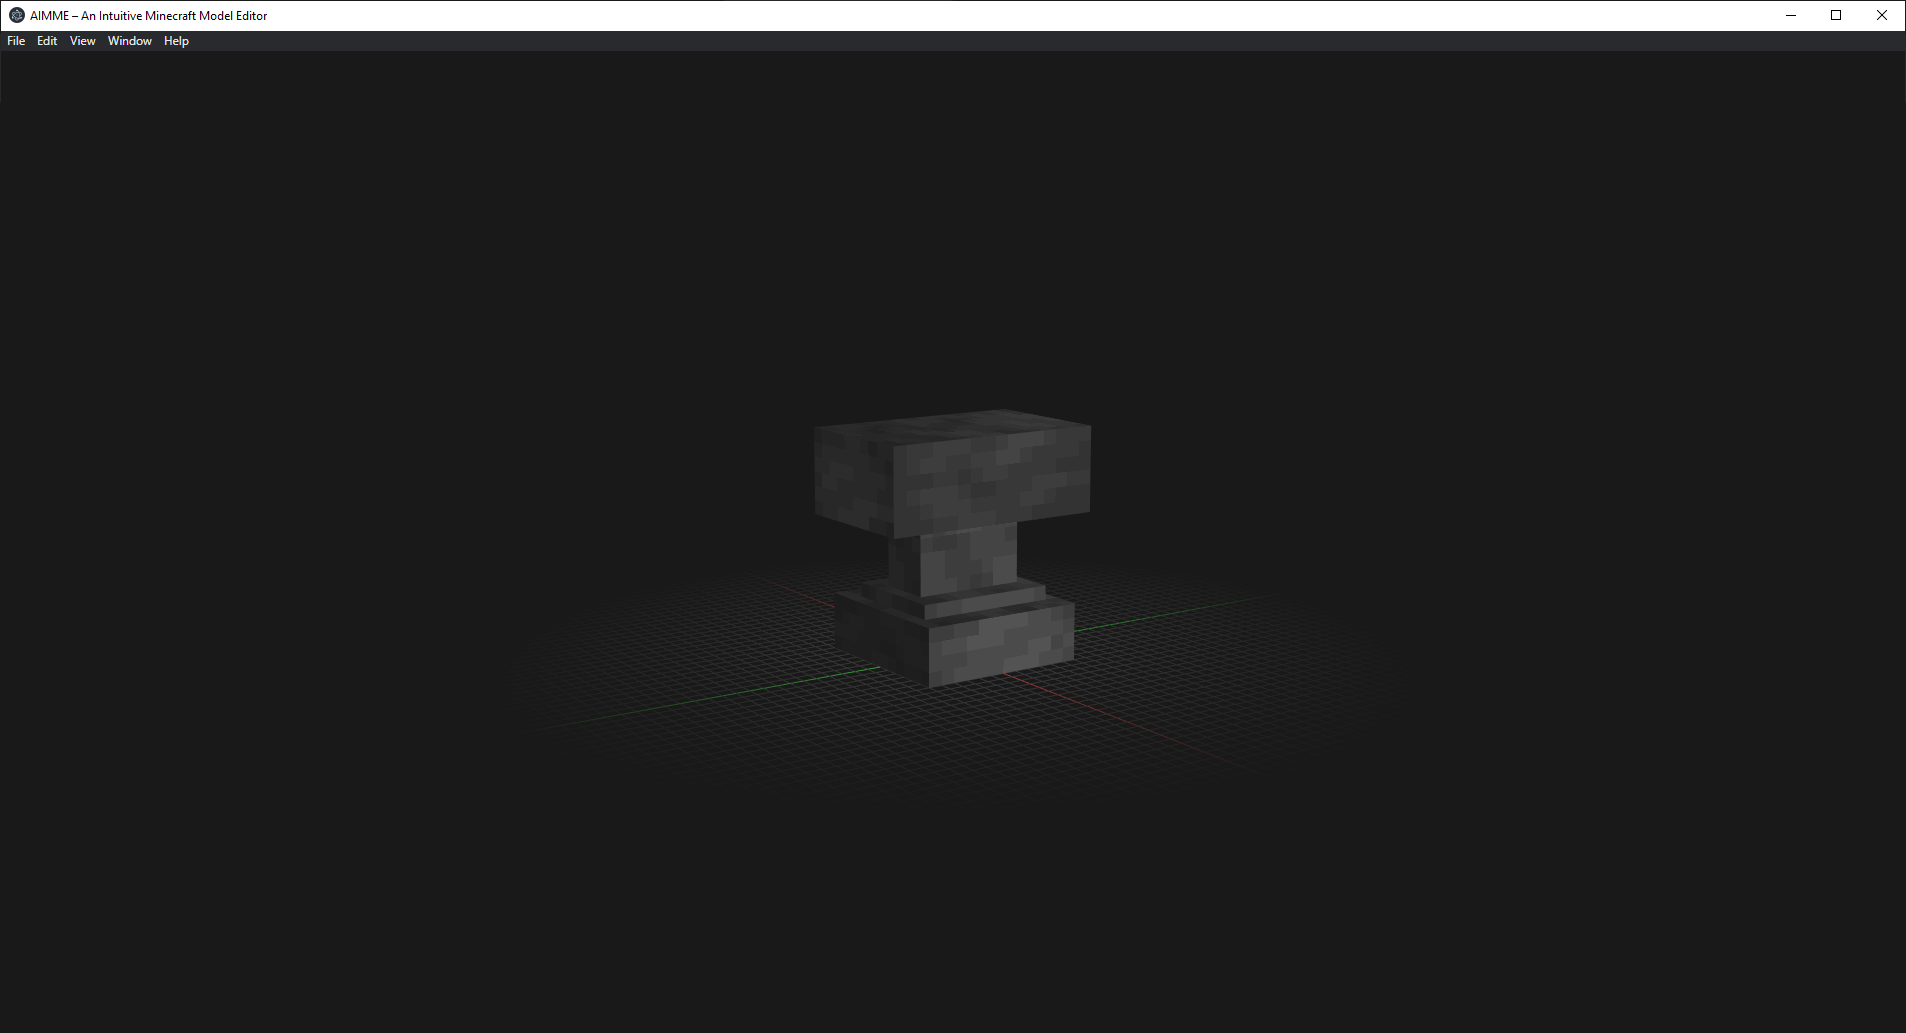
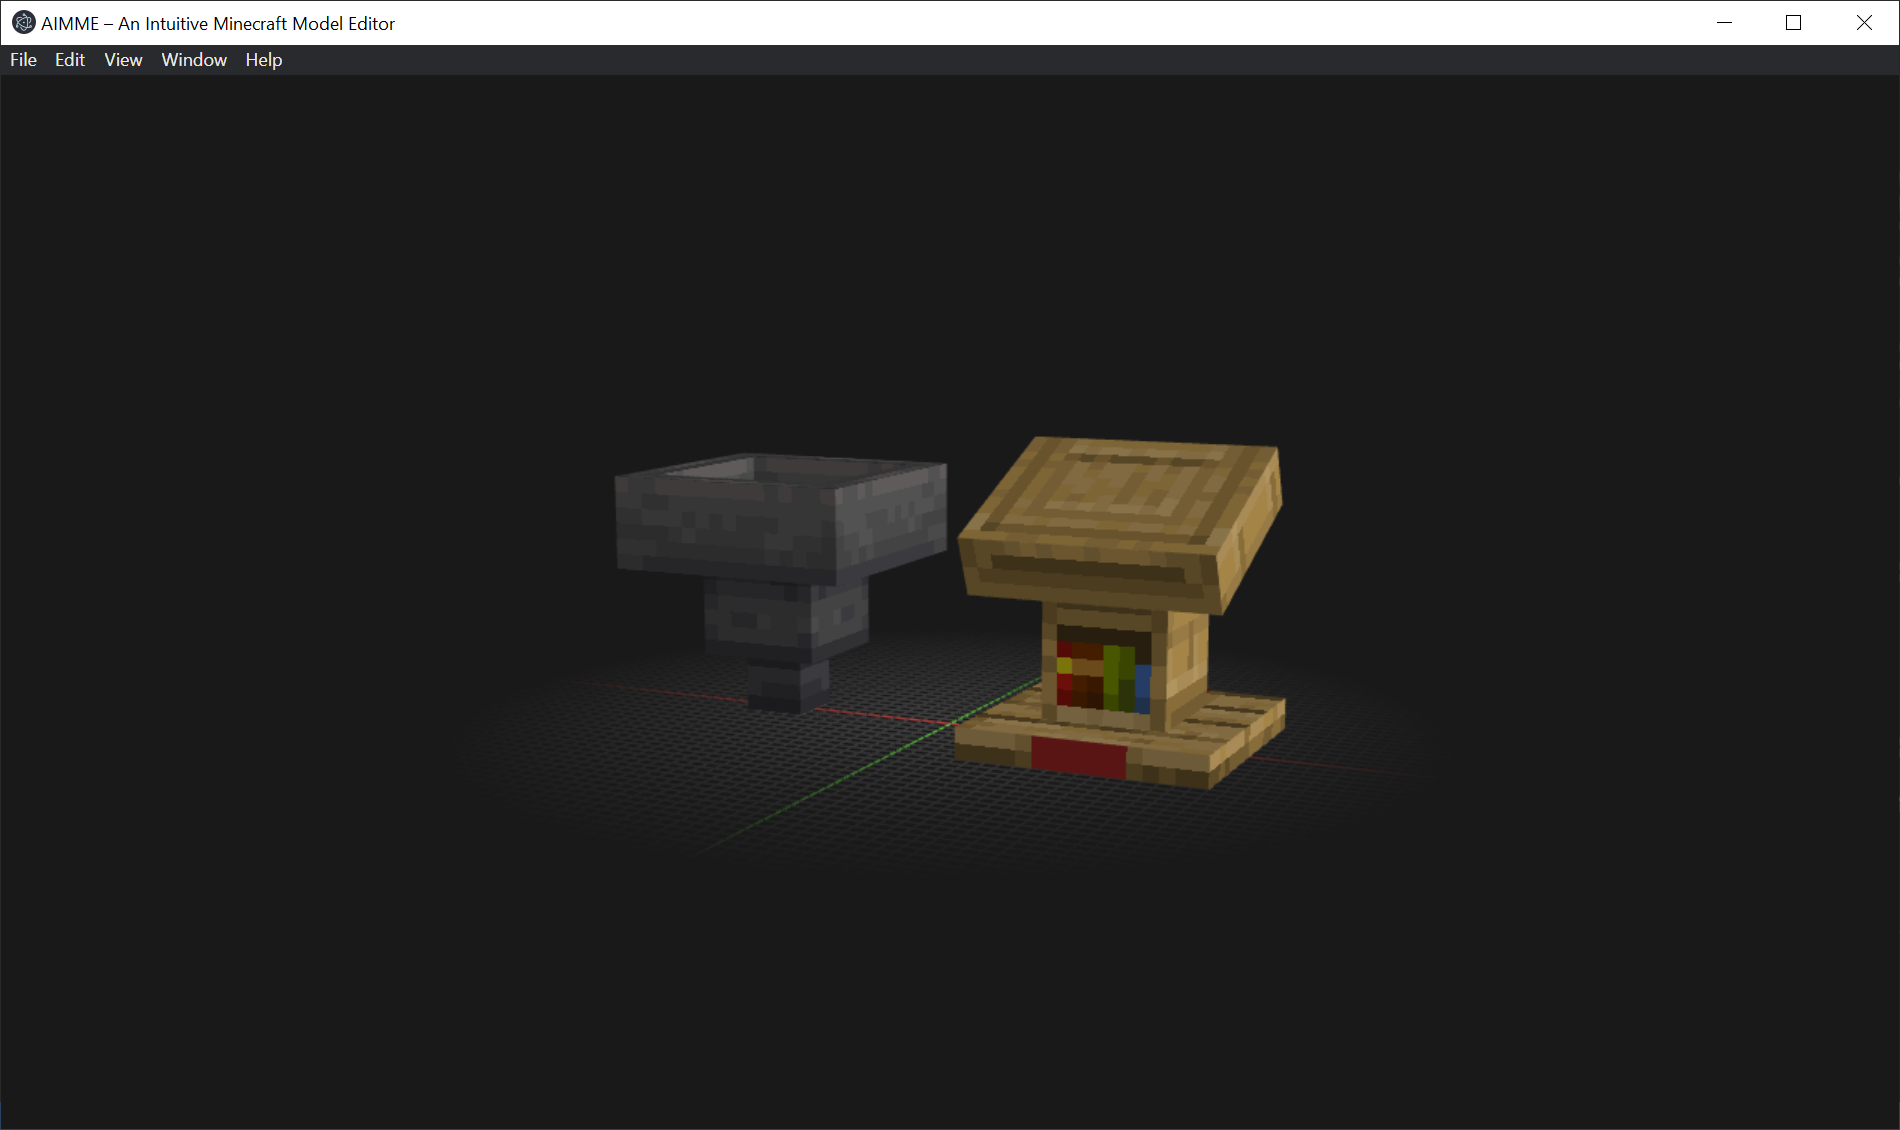
Fixed rotated UVs, added Model class, minor refactors

Changed region(s): [[0.3105, 0.3717, 0.6832, 0.7125], [0.0, 0.0, 1.0, 0.062], [0.0, 0.9913, 1.0, 1.0]]

diff --git a/src/renderer.js b/src/renderer.js
@@ -11,34 +11,21 @@ const textureUtil = require('./src/texture.js');
 const m4 = twgl.m4;
 const v3 = twgl.v3;
 const gl = document.querySelector("#c").getContext("webgl");
+
 var camera = new cameraHandler.ArcballCamera(30, gl.canvas.clientWidth / gl.canvas.clientHeight, 0.5, 30.0);
-
-
-// Load anvil model data and texture
-let model = fs.readFileSync('./resources/models/block/hopper.json', 'utf8');
-model = JSON.parse(model);
-
-let texture = textureUtil.createTextureAtlas(model, gl);
-let uv_offsets = texture.uv_offset;
-texture = twgl.createTexture(gl, texture.tex);
-console.log(uv_offsets)
-
-// Build mesh from model data
-const modelMesh = meshManager.generateJSONMesh(model, uv_offsets);
 
 const gridMesh = meshManager.generateGridMesh();
 const gridBuffer = twgl.createBufferInfoFromArrays(gl, gridMesh);
 
+let hopper = new meshManager.Model('./resources/models/block/hopper.json', gl);
+let lectern = new meshManager.Model('./resources/models/block/lectern.json', gl);
+console.log(lectern);
 
-//let index = 0;
-//let vertex = meshManager.getMeshVertex(modelMesh, 0, false);
-//vertex[1] += 5;
-//meshManager.editMeshVertex(modelMesh, index, vertex);
-
-let modelBuffer = twgl.createBufferInfoFromArrays(gl, modelMesh);
 
 let hitting = false;
 let rotateCamera = false;
+
+/*
 let pseudoTime = 0;
 
 let hoverIndices = [];
@@ -47,11 +34,13 @@ let editingIndices = [];
 let editing = false;
 
 let initialEditMouse = null;
+*/
 
 gl.canvas.addEventListener('mousedown', (e) => {
     if (!hitting) {
         rotateCamera = true;
-    } else {
+    }
+    /*else {
         editingIndices = hoverIndices;
         initialPositions[0].x = modelMesh.position[editingIndices[0] + 0];
         initialPositions[0].y = modelMesh.position[editingIndices[0] + 1];
@@ -68,11 +57,12 @@ gl.canvas.addEventListener('mousedown', (e) => {
         initialEditMouse = mouseHandler.getMousePos();
         editing = true;
     }
+    */
 });
 
 gl.canvas.addEventListener('mouseup', (e) => {
     rotateCamera = false;
-    editing = false;
+    //editing = false;
 });
 
 gl.canvas.addEventListener('mousemove', (e) => {
@@ -82,6 +72,7 @@ gl.canvas.addEventListener('mousemove', (e) => {
         var delta = mouseHandler.getMouseDelta();
         camera.updateCamera(delta);
     }
+    /*
     else if (editing) {
         //console.log('editing');
         let curMou = mouseHandler.getMousePos();
@@ -102,6 +93,7 @@ gl.canvas.addEventListener('mousemove', (e) => {
         }
         modelBuffer = twgl.createBufferInfoFromArrays(gl, modelMesh);
     }
+    */
 });
 
 gl.canvas.addEventListener('wheel', (e) => {
@@ -124,26 +116,27 @@ function drawGrid() {
 }
 
 
-function drawModel() {
+function drawModel(model, translation) {
 
     const world = camera.getWorldMatrix();
 
     const shaded_uniforms = {
         u_lightWorldPos: [10, -5, 2.5],
-        u_diffuse: texture,
+        u_diffuse: model.textureUnit,
         u_viewInverse: camera.getCameraMatrix(),
         u_world: world,
         u_worldInverseTranspose: m4.transpose(m4.inverse(world)),
-        u_worldViewProjection: m4.multiply(camera.getViewProjection(), world)
+        u_worldViewProjection: m4.multiply(camera.getViewProjection(), world),
+        u_translate: translation
     };
 
     gl.useProgram(shaderManager.shadedProgram.program);
-    twgl.setBuffersAndAttributes(gl, shaderManager.shadedProgram, modelBuffer);
+    twgl.setBuffersAndAttributes(gl, shaderManager.shadedProgram, model.modelBuffer);
     twgl.setUniforms(shaderManager.shadedProgram, shaded_uniforms);
-    gl.drawElements(gl.TRIANGLES, modelBuffer.numElements, gl.UNSIGNED_SHORT, 0);
+    gl.drawElements(gl.TRIANGLES, model.modelBuffer.numElements, gl.UNSIGNED_SHORT, 0);
 }
 
-
+/*
 function drawFaceHighlight() {
     const world = camera.getWorldMatrix();
     const worldViewProjection = m4.multiply(camera.getViewProjection(), world);
@@ -187,10 +180,10 @@ function drawFaceHighlight() {
     }
 
 }
-
+*/
 
 function render(time) {
-    pseudoTime++;
+    //pseudoTime++;
 
     twgl.resizeCanvasToDisplaySize(gl.canvas);
     gl.viewport(0, 0, gl.canvas.width, gl.canvas.height);
@@ -202,9 +195,10 @@ function render(time) {
     gl.clearColor(0.1,0.1,0.1,1);
     gl.clear(gl.COLOR_BUFFER_BIT | gl.DEPTH_BUFFER_BIT);
 
-    drawModel();
+    drawModel(lectern, v3.create(-0.75, 0.0, 0));
+    drawModel(hopper, v3.create(0.75, 0.0, 0));
     drawGrid();
-    drawFaceHighlight();
+    //drawFaceHighlight();
 
     requestAnimationFrame(render);
 }

diff --git a/src/mesh.js b/src/mesh.js
@@ -1,4 +1,7 @@
 const { v3: Vector3 } = require("twgl.js");
+const twgl = require('twgl.js');
+const fs = require('fs');
+const textureUtil = require('./texture.js');
 
 function getGridColour(i, j, isXAxis) {
     if (i == 0 && isXAxis) {
@@ -94,23 +97,24 @@ function editMeshVertexY(mesh, vertexIndex, y) {
 }
 
 
-function generateUVsFromPosition(vertex_position, vertex_normal, uv_offset) {
-    console.log(uv_offset);
+function generateUVsFromPosition(vertex_position, vertex_normal, uv_offset, num_texs) {
+    //console.log(uv_offset);
+
     if (vertex_normal[1] == 0 && vertex_normal[2] == 0) {
         let tx = 1 - vertex_position[2] / 16;
         let ty = 1 - vertex_position[1] / 16;
-        return [tx * 0.25 + uv_offset, ty]; 
+        return [tx / num_texs + uv_offset, ty]; 
     }
     if (vertex_normal[0] == 0 && vertex_normal[1] == 0) {
         let tx = 1 - vertex_position[0] / 16;
         let ty = 1 - vertex_position[1] / 16;
-        return [tx * 0.25 + uv_offset, ty]; 
+        return [tx / num_texs + uv_offset, ty]; 
     }
     // TODO: This one needs checking
     if (vertex_normal[2] == 0 && vertex_normal[0] == 0) {
         let tx = 1 - vertex_position[2] / 16;
         let ty = 1 - vertex_position[0] / 16;
-        return [tx * 0.25 + uv_offset, ty]; 
+        return [tx / num_texs + uv_offset, ty]; 
     }
     return [0, 0]; 
 }
@@ -125,13 +129,14 @@ function generateFace(positions, faceNormal, face, mesh, element, uv_offsets) {
     let num_texs = Object.keys(uv_offsets).length;
     let uv_offset = uv_offsets[faceTexture.substring(1)];
     uv_offset /= 16 * num_texs;
-    console.log(uv_offset);
+    //console.log(uv_offset);
 
     if (element.rotation) {
         rotateElement(element, positions)
     }
 
     let rot = (face.rotation || 0.0) / 90.0;
+    rot += 2;
 
     // Add a (x,y) UV coordinate for  
     let texcoord = [[0, 3], [2, 3], [2, 1], [0, 1]];
@@ -142,11 +147,14 @@ function generateFace(positions, faceNormal, face, mesh, element, uv_offsets) {
         mesh.normal = mesh.normal.concat(faceNormal);
         // Add vertex tex-coords, TODO: cleanup
         if (face.uv) {
-            let tx = uv_offset * face.uv[(texcoord[i][0] + rot) % 4] / 16;
+            console.log('Generate from UVs');
+            let tx = face.uv[(texcoord[i][0] + rot) % 4] / 16;
+            tx = tx / num_texs + uv_offset;
             let ty = face.uv[(texcoord[i][1] + rot) % 4] / 16;
             mesh.texcoord.push(tx, ty);
         } else {
-            let t = generateUVsFromPosition(positions[i], faceNormal, uv_offset);
+            console.log('Generate from positions');
+            let t = generateUVsFromPosition(positions[i], faceNormal, uv_offset, num_texs);
             mesh.texcoord.push(t[0], t[1]);
         }
     }
@@ -214,7 +222,7 @@ function multiplyMatrixVector(matrix, vector) {
 }
 
 function rotateElement(element, positions) {
-    console.log(positions);
+    //console.log(positions);
 
     const angle = element.rotation.angle * 0.0174533;
 
@@ -268,8 +276,26 @@ function generateJSONMesh(json, uv_offsets) {
     return mesh;
 }
 
+
+class Model {
+
+    constructor(filename, gl) {
+        const model = fs.readFileSync(filename, 'utf8');
+        this.modelJSON = JSON.parse(model);
+
+        const textureAtlas = textureUtil.createTextureAtlas(this.modelJSON, gl);
+        this.uvOffsets = textureAtlas.uv_offset;
+        this.textureUnit = twgl.createTexture(gl, textureAtlas.tex);
+
+        this.modelMesh = generateJSONMesh(this.modelJSON, this.uvOffsets);
+        this.modelBuffer = twgl.createBufferInfoFromArrays(gl, this.modelMesh);
+    }
+
+}
+
 module.exports.generateGridMesh = generateGridMesh;
 module.exports.generateJSONMesh = generateJSONMesh;
 module.exports.getMeshVertex = getMeshVertex;
 module.exports.editMeshVertex = editMeshVertex;
 module.exports.editMeshVertexY = editMeshVertexY;
+module.exports.Model = Model;

diff --git a/src/texture.js b/src/texture.js
@@ -15,12 +15,12 @@ function createTextureAtlas(model_json, gl) {
         let texture_path = "./resources/" + model_json.textures[texture_key] + ".png";
         var data = fs.readFileSync(texture_path);
         var png = PNG.sync.read(data);
-        //tex_array = tex_array.concat(Array.from(png.data));
         textures.push(Array.from(png.data));
         uv_offset[texture_key] = 16 * num_textures;
         num_textures++;
     }
 
+    // TODO: cleanup
     for (let row = 0; row < 16; row++) {
         for (let texture of textures) {
             let pixel_row = [];
@@ -33,8 +33,6 @@ function createTextureAtlas(model_json, gl) {
             tex_array = tex_array.concat(pixel_row);
         }
     }
-    
-    console.log(tex_array);
 
     return {tex: {
         width: 16 * num_textures,
